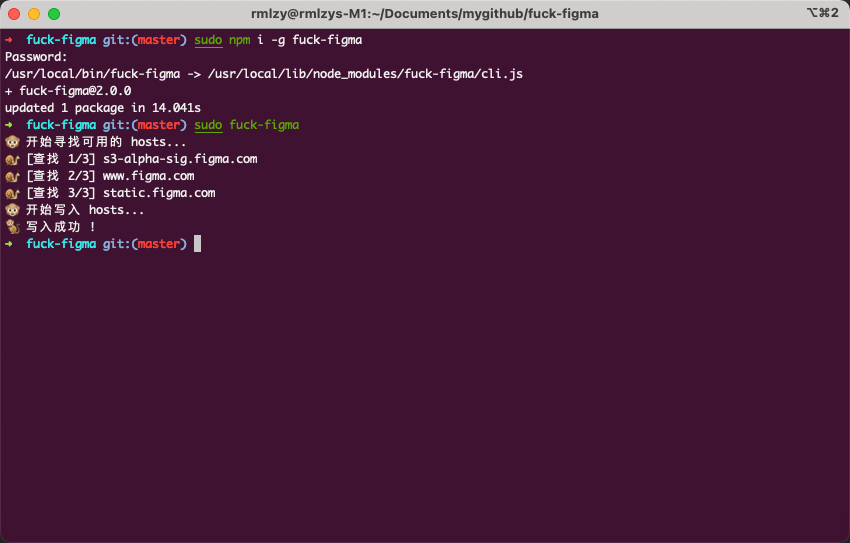
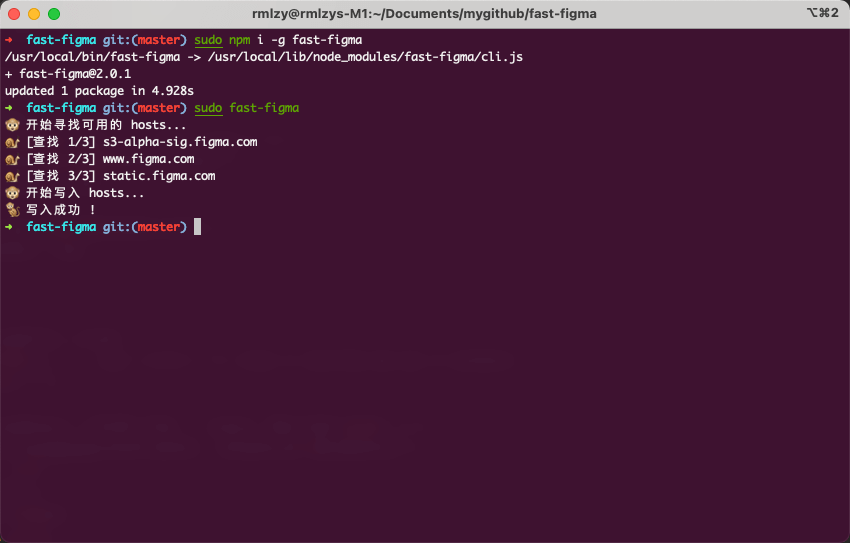
docs: update preview image

Changed region(s): [[0.0, 0.0589, 0.3671, 0.4715], [0.2447, 0.0589, 0.6118, 0.1473], [0.3059, 0.0, 0.7035, 0.0589]]

diff --git a/lib/write-hosts.js b/lib/write-hosts.js
@@ -1,7 +1,7 @@
 const fs = require('fs-extra');
 
-const START_FLAG = '# Fuck Figma Start';
-const END_FLAG = '# Fuck Figma End';
+const START_FLAG = '# Fast Figma Start';
+const END_FLAG = '# Fast Figma End';
 const hostFilePath = '/etc/hosts';
 
 const writeHosts = async (hosts) => {
